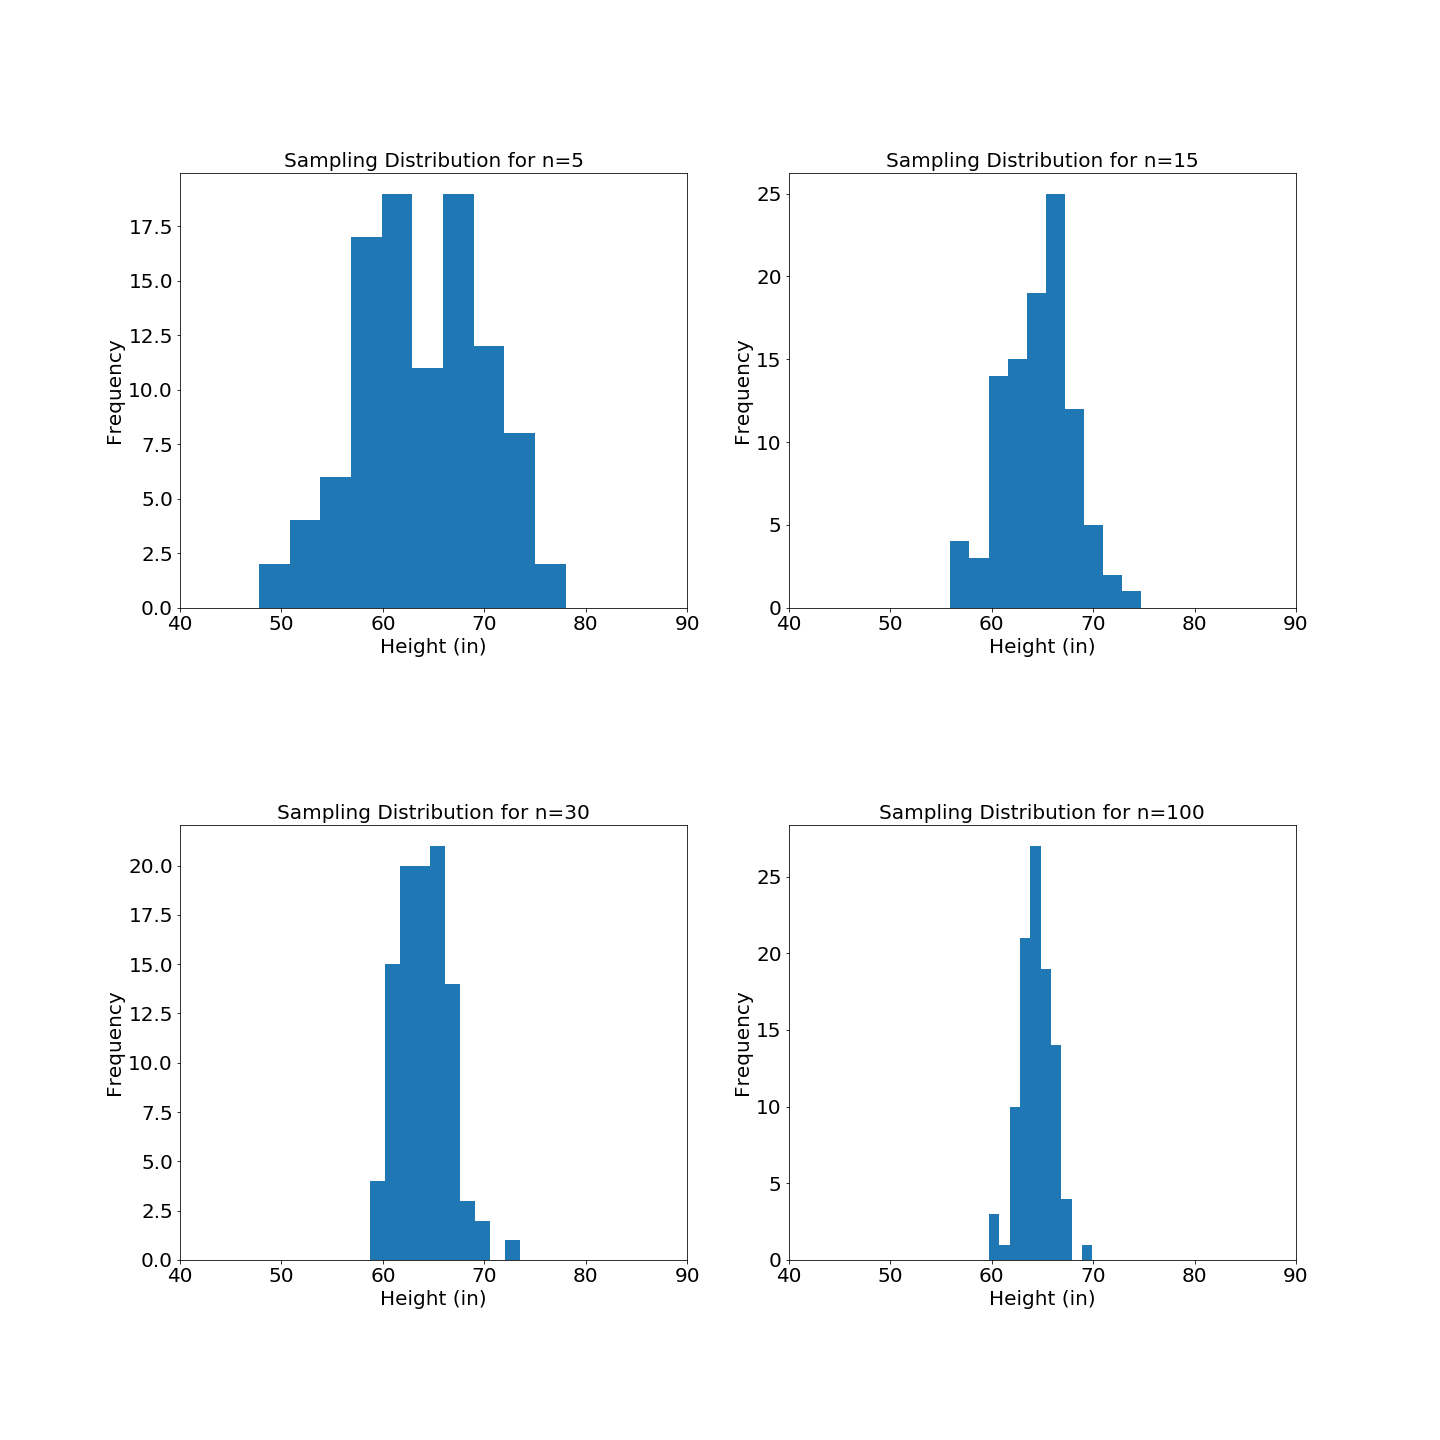
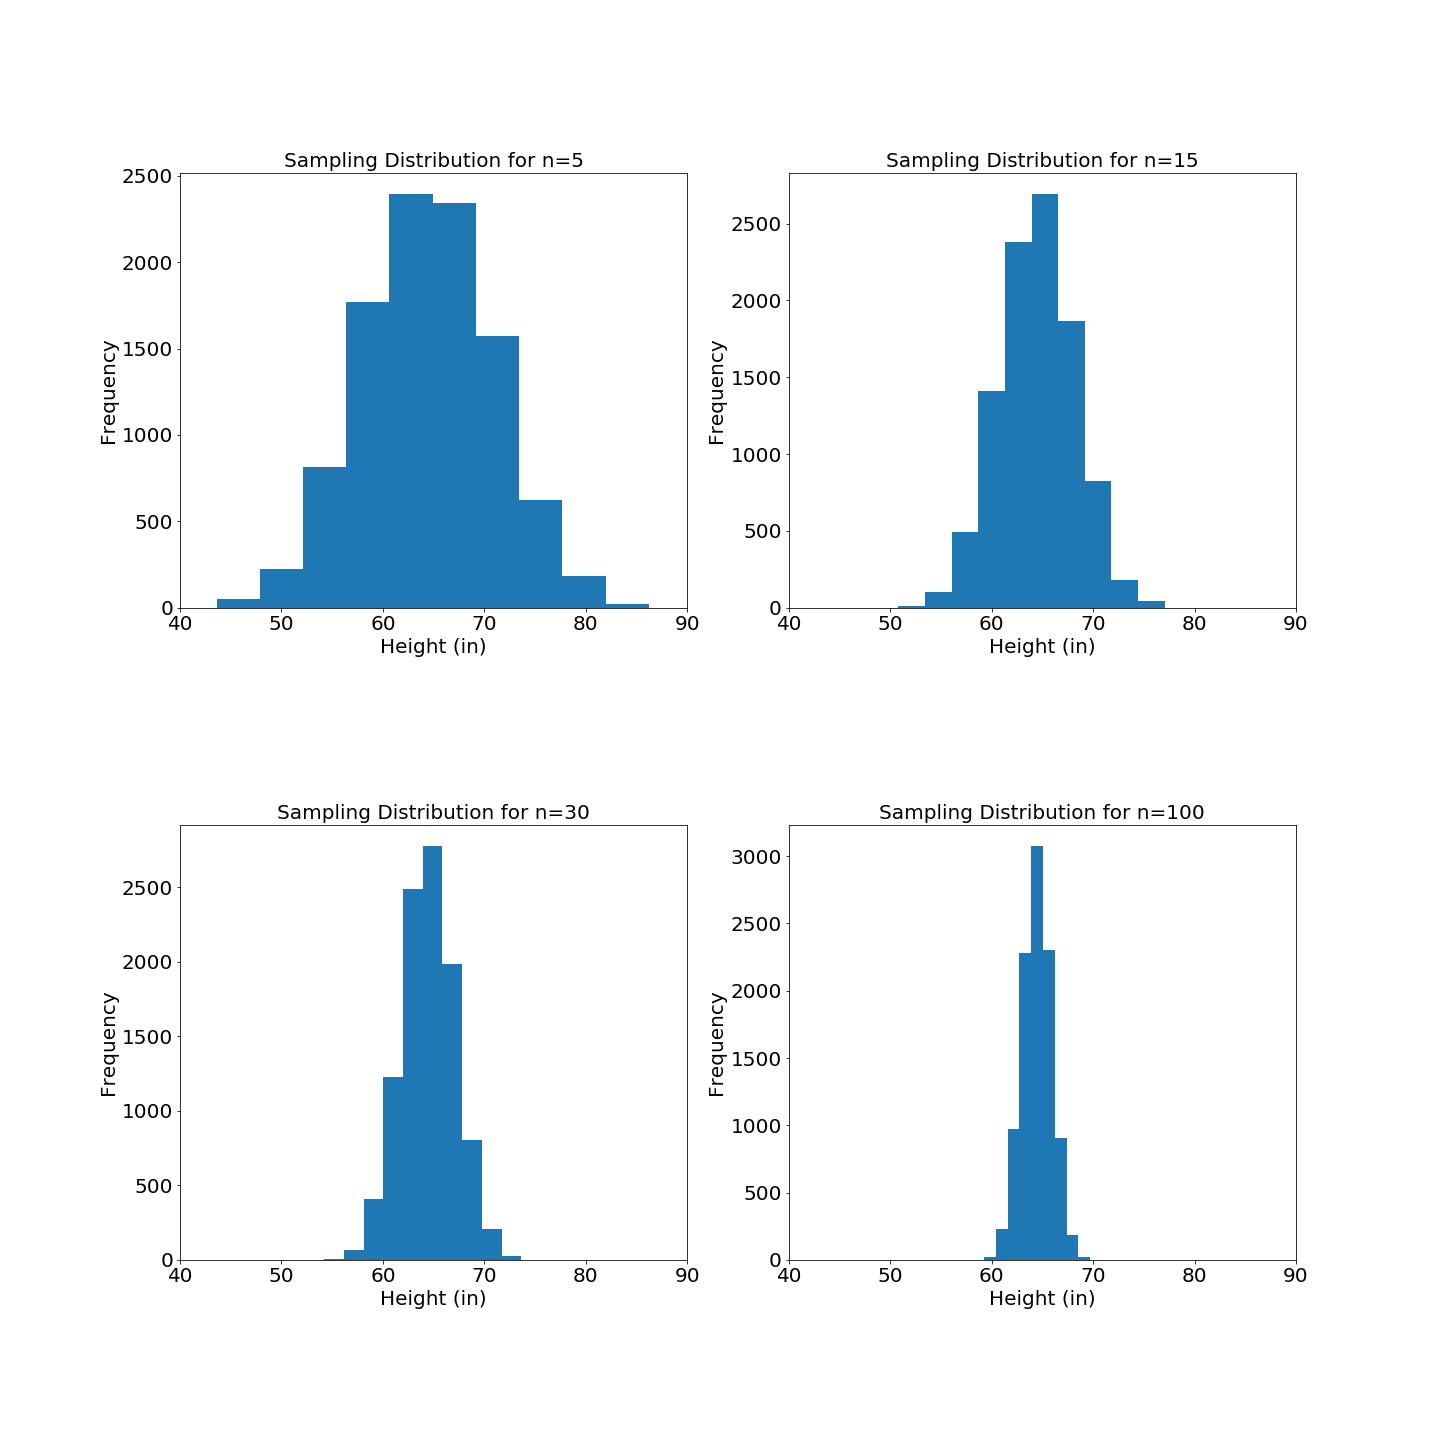
fixed blog

diff --git a/_posts/2020-02-01-central-limit-theorem.md b/_posts/2020-02-01-central-limit-theorem.md
@@ -7,21 +7,15 @@ by Tim Christy
 
 <br>
 
-Imagine that you want to know the mean height of everybody in Reno, NV. Since it is impractical to go out and measure the height of all 250,000+ people, you would have to rely on sample data (*randomly* sampled) to estimate this parameter. The practical application of the **central limit theorem** here says that every single possible mean we could get from our samples of size n follows a normal distribution with a mean that will be very close to the population mean so long as our sample size, n, is large enough.
+Imagine that you want to know the mean height of everybody in Reno, NV. Since it is impractical to go out and measure the height of all 250,000+ people, you would have to rely on sample data (*randomly* sampled) to estimate this parameter. The practical application of the **central limit theorem** here says that every single possible mean we could get from our samples of size n follows a normal distribution with a mean that will be equal to the population mean so long as our sample size, n, is large enough.
 
 <br>
 
-To illustrate, suppose I go out and randomly survey 30 people and take the mean of their heights. Then I go out and do it again for another 30 people. And another. And so on like this until I get every single possible combination of 30 people in the entire city and the mean heights of each of these combinations. The distribution of all of these mean heights form the sampling distribution of the sample mean for a sample size of 30. It is the distribution of every possible mean you could get from a sample of 30 people in this city.
+To illustrate, suppose I go out and randomly survey 30 people and take the mean of their heights. Then I go out and do it again for another 30 people. And another. And so on like this until I get every single possible combination of 30 people in the entire city and the mean heights of each of these combinations. The distribution of all of these mean heights form the **sampling distribution of the sample mean** for a sample size of 30. It is the distribution of every possible mean you could get from all samples of 30 people in this city.
 
-It doesn't have to be 30 people either. There is a unique sampling distribution for every value of the sample size chosen. The distribution for samples of 15 people would look different from the sampling distribution of 30 people or 4 people or 16 people, etc. The difference would be due to the standard error; which is the standard deviation of the sampling distribution. The larger the sample size, the smaller the standard error.
+It doesn't have to be 30 people either. There is a unique sampling distribution for every value of the sample size chosen. The distribution for samples of 15 people would look different from the sampling distribution of 30 people or 4 people or 16 people, etc. The difference would be due to the standard error; which is the standard deviation of the sampling distribution. The larger the sample size, the smaller the standard error. We will see in the example that follows.  
 
-<br>
-
-Also, these samples typically need to be done with replacement unless the samples taken are less than about 10% of the population.
-
-<br>
-
-Ok, let's look at an example.
+To illustrate that the population, does not need to be normally distributed, suppose the heights of 250,000 people followed a uniform distribution.
 
 <br>
 
@@ -38,7 +32,7 @@ random_data = [np.random.randint(40,90) for x in range(250000)]
 
 <br>
 
-Plotting the distribution of this population...   
+Plotting the distribution...   
 
 <br>
 
@@ -58,7 +52,7 @@ plt.show()
 
 
 
-Above we generated data about the heights of 250,000 people. The data we generated gave us a population that is almost perfectly uniform; meaning that every height is equally likely (how different would that world look?). What is the mean height of this population?   
+This is the population distribution of every height of 250,000 people in inches. What is the mean of this population?
 
 ```python
 round(np.mean(random_data),1)
@@ -67,21 +61,21 @@ round(np.mean(random_data),1)
 
 <br>
 
-Again, the central limit theorem says that despite the shape of the population distribution, the sampling distribution will be normally distributed with a mean equal to the population mean, as long as the sample size n, is large enough (typically 30 or more). Let's build some sampling distributions and check it out.   
+Time to test the central limit theorem. It says that despite the shape of the population distribution, the sampling distribution will be normally distributed with a mean equal to the population mean, as long as the sample size n, is large enough (typically 30 or more). I can't take every possible mean from this population, but I can take enough to begin to see the sampling distributions take shape. So let's do this and check it out.   
 
 ```python  
 # randomly pick 5 people from the above population, take their average, and repeat 10 times
 # randomly pick 5 people from the above population, take their average, and repeat 10 times
-n5 = [np.mean(np.random.choice(random_data, 5)) for x in range(100)]
+n5 = [np.mean(np.random.choice(random_data, 5)) for x in range(10_000)]
 
 # randomly pick 15 people from the above population, take their average, and repeat 10 times
-n15 = [np.mean(np.random.choice(random_data, 15)) for x in range(100)]
+n15 = [np.mean(np.random.choice(random_data, 15)) for x in range(10_000)]
 
 # randomly pick 30 people, and do the same...
-n30 = [np.mean(np.random.choice(random_data, 30)) for x in range(100)]
+n30 = [np.mean(np.random.choice(random_data, 30)) for x in range(10_000)]
 
 # randomly pick 100 people " " " " " "
-n100 = [np.mean(np.random.choice(random_data, 100)) for x in range(100)]
+n100 = [np.mean(np.random.choice(random_data, 100)) for x in range(10_000)]
 
 ```   
 
@@ -110,58 +104,12 @@ for plot in plots:
 # Observations
 
 - Notice that as n gets larger, the mean of the sampling distribution tightens around the population mean of 64.5
-- This is one reason why a large sample size is important in this estimation. If the sample size is too small as it is with n = 5, you risk any given sample landing between a mean of 45 and 80. Sometimes the normality of the sampling distribution is void too, with a small sample size.  
+- This is one reason why a large sample size is important in this estimation. If the sample size is too small as it is with n = 5, you risk any given sample landing between a mean of 51.4 and 79.6. Higher the value of n, the smaller this range becomes (see standard error). Sometimes the normality of the sampling distribution is void too, with a small sample size.  
 
-That is essentially what the central limit theorem is: even if the population distribution is not normally distributed itself, the distribution of sample means will be and the mean of the distribution of sample means will be equal to the population mean.
+That is essentially what the central limit theorem is: even if the population distribution is not normally distributed itself, the distribution of sample means will be and the mean of the distribution of sample means equal the population mean (note the distribution of sample means is every possible sample mean, which we did not simulate. We simulated 10,000 points per distribution, which is just an approximation to the sampling distribution of sample means).  
 
-Let's try another distribution and make it really skewed.   
+There are however, population distributions in which the central limit theorem does not hold; like infinite variance (see Cauchy distribution).
 
-```python
+This whole process works for other parameters too, not just the mean (like proportion or standard deviation). The population distribution does not matter so much, if the sample size is large. With a large sample size, you can still make a reasonable estimate.
 
-dist1 = list(np.random.laplace(loc=50, size=1000))
-dist2 = list(np.random.exponential(size=1000) + 55)
-dist3 = [np.random.randint(60, 100) for x in range(1000)]
-
-exp = dist1+dist2+dist3
-```   
-
-![](../../../../assets/imgs/blogs/2020-02-01/skewed_pop.png)  
-
-Building and plotting sampling distributions again,  
-
-```python  
-n5 = [np.mean(np.random.choice(exp, 5)) for x in range(100)]
-n15 = [np.mean(np.random.choice(exp, 15)) for x in range(100)]
-n30 = [np.mean(np.random.choice(exp, 30)) for x in range(100)]
-n100 = [np.mean(np.random.choice(exp, 100)) for x in range(100)]
-```
-
-```python  
-plt.figure(figsize=(20,10))
-plt.subplots_adjust(hspace=.5)
-plots = [n5, n15, n30, n100]
-labels = ['n=5', 'n=15', 'n=30', 'n=100']
-counter = 0
-for plot in plots:
-    counter+=1
-    plt.subplot(2,2,counter)
-    plt.title(f'Sampling Distribution for {labels[counter-1]}', fontsize=20)
-    plt.xlabel('Random Data', fontsize=20)
-    plt.ylabel('Frequency', fontsize=20)
-    plt.xticks(fontsize=20)
-    plt.yticks(fontsize=20)
-    plt.xlim([50,100])
-    plt.hist(plot);  
-```   
-
-![](../../../../assets/imgs/blogs/2020-02-01/samp_skewed.png)  
-
-Still, the sampling distributions look normal. The higher the n the better the approximation to the normal distribution.
-
-
-
-# Main Takeaways
-
-This whole process works for other parameters too. For example, the proportion of the population that supports candidate A or likes pizza or whatever. The population distribution does not matter so much, if the sample size is large. With a large sample size, you can still make a reasonable estimate.
-
-One reason why this is so important is that it allows for hypothesis testing and confidence intervals, which rely on the assumption of a normal distribution. The central limit theorem helps to make that assumption valid.  
+Two reasons why this is so important is that it allows for hypothesis testing and confidence intervals, which rely on the assumption of a normal distribution. The central limit theorem helps to make that assumption valid.  
